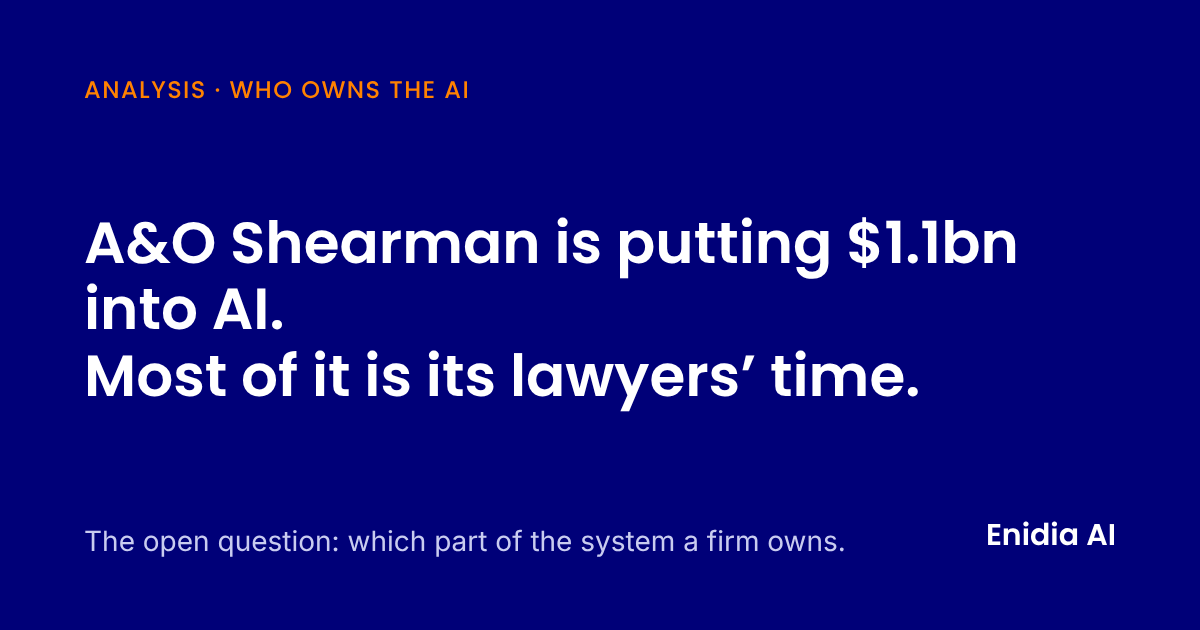
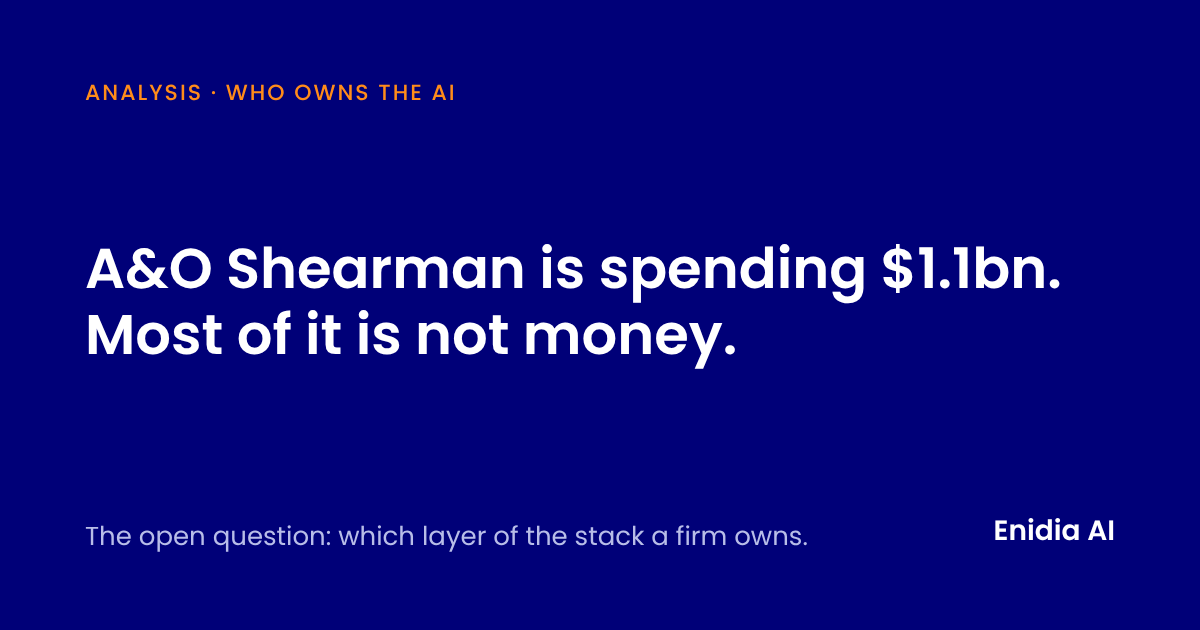
Update A&O Shearman article with RAMONA's revised text
New title and standfirst, per-lawyer arithmetic removed, A&O figures
sourced to the firm's own announcement (Reuters dropped), new headline
card, index card title and summary updated.

Claude-Session: https://claude.ai/code/session_01Nhv7rZuRa39Vx2m4perFc2

diff --git a/blog/which-layer-do-you-own.html b/blog/which-layer-do-you-own.html
@@ -11,18 +11,19 @@
 
   <meta charset="UTF-8" />
   <meta name="viewport" content="width=device-width, initial-scale=1.0" />
-  <title>A&amp;O Shearman’s $1.1bn AI bet, and what firms should own · Enidia AI</title>
-  <meta name="description" content="Most of A&amp;O Shearman’s $1.1bn AI commitment is lawyers’ time. It confirms firms want to own their AI. The open question is which part of the system to own." />
-  <meta name="keywords" content="law firm local AI model, A&O Shearman AI investment, on premise legal AI, open weight models law firm, legal AI build versus buy, Harvey law firm, legal AI confidentiality, Luxembourg legal AI" />
+  <title>A&amp;O Shearman’s billion, and which AI layer firms own · Enidia AI</title>
+  <meta name="description" content="A&amp;O Shearman says the majority of its 1.1 billion dollar AI commitment is practice time. The build signal is real. The open question is which layer of the stack a firm owns." />
+  <meta name="keywords" content="law firm local AI model, A&O Shearman AI investment, on premise legal AI, open weight models law firm, legal AI build versus buy, Harvey law firm, legal AI confidentiality, AI for fund administrators, Luxembourg legal AI" />
   <meta name="author" content="Enidia AI" />
   <link rel="canonical" href="https://enidia.ai/blog/which-layer-do-you-own.html" />
   <meta property="og:type" content="article" />
   <meta property="og:site_name" content="Enidia AI" />
-  <meta property="og:title" content="A&amp;O Shearman is putting $1.1bn into AI. Most of it is its lawyers’ time." />
-  <meta property="og:description" content="Most of A&amp;O Shearman’s $1.1bn AI commitment is lawyers’ time. It confirms firms want to own their AI. The open question is which part of the system to own." />
+  <meta property="og:title" content="A&amp;O Shearman is spending $1.1bn. Most of it is not money." />
+  <meta property="og:description" content="A&amp;O Shearman says the majority of its 1.1 billion dollar AI commitment is practice time. The build signal is real. The open question is which layer of the stack a firm owns." />
   <meta property="og:url" content="https://enidia.ai/blog/which-layer-do-you-own.html" />
   <meta property="og:image" content="https://enidia.ai/assets/img/blog/ao-shearman-billion-1200x630.png" />
   <meta property="article:published_time" content="2026-11-12" />
+  <meta property="article:modified_time" content="2026-11-14" />
   <meta name="twitter:card" content="summary_large_image" />
   <link rel="icon" href="../assets/img/favicon.png" />
   <link rel="stylesheet" href="../assets/css/fonts.css">
@@ -32,10 +33,11 @@
 {
   "@context": "https://schema.org",
   "@type": "Article",
-  "headline": "A&O Shearman is putting $1.1bn into AI. Most of it is its lawyers’ time.",
-  "description": "Most of A&O Shearman’s $1.1bn AI commitment is lawyers’ time. It confirms firms want to own their AI. The open question is which part of the system to own.",
-  "keywords": "law firm local AI model, A&O Shearman AI investment, on premise legal AI, open weight models law firm, legal AI build versus buy, Harvey law firm, legal AI confidentiality, Luxembourg legal AI",
+  "headline": "A&O Shearman is spending $1.1bn. Most of it is not money.",
+  "description": "A&O Shearman says the majority of its 1.1 billion dollar AI commitment is practice time. The build signal is real. The open question is which layer of the stack a firm owns.",
+  "keywords": "law firm local AI model, A&O Shearman AI investment, on premise legal AI, open weight models law firm, legal AI build versus buy, Harvey law firm, legal AI confidentiality, AI for fund administrators, Luxembourg legal AI",
   "datePublished": "2026-11-12",
+  "dateModified": "2026-11-14",
   "author": {
     "@type": "Person",
     "name": "Enidia AI",
@@ -76,52 +78,52 @@
   <article class="doc">
 
     <p class="doc-eyebrow">Analysis · Who owns the AI</p>
-    <h1>A&amp;O Shearman is putting $1.1bn into AI. Most of it is its lawyers’ time.</h1>
+    <h1>A&amp;O Shearman is spending $1.1bn. Most of it is not money.</h1>
     <div class="doc-meta">
       <strong>Enidia AI</strong><br/>
       November 12, 2026
     </div>
 
-    <figure class="doc-photo"><img src="../assets/img/blog/ao-shearman-billion-1200x630.png" alt="Headline card: A&amp;O Shearman is putting $1.1bn into AI. Most of it is its lawyers’ time." width="1200" height="630" /></figure>
+    <figure class="doc-photo"><img src="../assets/img/blog/ao-shearman-billion-1200x630.png" alt="Headline card: A&amp;O Shearman is spending $1.1bn. Most of it is not money." width="1200" height="630" /></figure>
 
     <div class="abstract">
-      <p>A&O Shearman has committed 1.1 billion dollars to AI over five years, and the firm says most of it will come from its lawyers’ time rather than new spending. That is a firm deciding that its AI should belong to the firm, not be rented. The question it leaves open is which part of the system a firm needs to own.</p>
+      <p>A&amp;O Shearman has committed 1.1 billion dollars to AI over five years. The firm says the majority of that figure is its own practices’ time rather than a cheque. That is the real signal, and it is the one we have been waiting three years for. What it does not settle is which part of the stack a firm actually needs to own.</p>
     </div>
 
-    <p>On 10 November <a href="https://newsletter.thelegalwire.ai/p/a-o-shearman-s-1-1b-ai-play" target="_blank" rel="noopener">The Legal Wire</a> pulled together a week that shows where large firms now think AI belongs. A&amp;O Shearman committed 1.1 billion dollars to its AI strategy over five years, <a href="https://www.aoshearman.com/en/news/ao-shearman-accelerates-ai-strategy-with-a-usd11bn-lawyer-led-commitment" target="_blank" rel="noopener">announced on 5 November</a> and <a href="https://www.reuters.com/legal/legalindustry/ao-shearmans-11-billion-ai-plan-builds-law-firms-tech-investments-2026-11-05/" target="_blank" rel="noopener">reported by Reuters</a>. Addleshaw Goddard said it will put Harvey in front of more than 3,400 lawyers and business services staff from January 2027, after a three-month assessment, with its 80-person Innovation Group working directly with Harvey’s product team. And Nikki Shaver leaves Legaltech Hub on 1 December to become Davis Polk’s first standalone Chief AI and Knowledge Officer.</p>
-    <p>That is three announcements in one week, and none of them is an ordinary software purchase.</p>
+    <p>On 10 November <a href="https://newsletter.thelegalwire.ai/p/a-o-shearman-s-1-1b-ai-play" target="_blank" rel="noopener">The Legal Wire</a> pulled together a week that tells you where large firms now think AI sits. A&amp;O Shearman <a href="https://www.aoshearman.com/en/news/ao-shearman-accelerates-ai-strategy-with-a-usd11bn-lawyer-led-commitment" target="_blank" rel="noopener">announced on 5 November</a> that it is committing 1.1 billion dollars to its AI strategy over five years. Addleshaw Goddard said it will put Harvey in front of more than 3,400 lawyers and business services staff from January 2027, after a three-month assessment, with its 80-person Innovation Group working directly with Harvey’s product team. And Nikki Shaver leaves Legaltech Hub on 1 December to become Davis Polk’s first standalone Chief AI and Knowledge Officer.</p>
+    <p>Three announcements, one week. None of them is a software purchase in the ordinary sense.</p>
 
     <h2>Read the sentence after the headline</h2>
-    <p>Most people will repeat the 1.1 billion figure. The sentence after it in A&amp;O’s announcement is more interesting: the majority of the investment will come from each practice putting at least 3 percent of its time into building specialist AI tools and services for its area of law.</p>
-    <p>The firm has not said how much of the figure is cash. But a rough calculation shows the scale. The Legal Wire puts A&amp;O at nearly 4,000 lawyers. If the whole 1.1 billion were time, that would be up to about 55,000 dollars per lawyer per year. Most of the figure is lawyers’ time, valued at what the firm could otherwise have billed for it. This calculation is ours, not a number A&amp;O has published.</p>
-    <p>So this is not a purchase. It is a firm deciding that building AI is part of its lawyers’ job, and paying for it with the thing a law firm has most of: its lawyers’ time.</p>
+    <p>The 1.1 billion is the number everyone will repeat. The sentence that follows it in the firm’s own announcement is the one worth reading. The majority of the investment, A&amp;O Shearman says, will come from “each practice investing at least 3% of its time” developing specialist AI tools and services inside its own area of law.</p>
+    <p>So the majority of a billion dollar commitment is practice time rather than licence fees. A firm is spending the scarcest thing it has on building, and it is doing it practice by practice instead of buying one general tool for everybody.</p>
+    <p>There is four years of groundwork behind that decision. A&amp;O Shearman rolled out generative AI across the firm in 2022, built ContractMatrix with Harvey and Microsoft in 2023, and reports that in September 2026, 96 percent of its partners and 93 percent of its lawyers used its AI tools. This is a firm extending something that already works.</p>
 
-    <h2>What this confirms</h2>
-    <p>Enidia was founded in 2023 on a premise that sounded eccentric at the time: that firms would eventually want their AI back. They would want something they control rather than a subscription to someone else’s system.</p>
-    <p>A&amp;O’s announcement is the clearest sign yet that this idea is now mainstream. A firm does not ask every practice to spend 3 percent of its time building tools if it thinks those tools are a commodity it can rent. It does that when it has decided the capability belongs to the firm.</p>
+    <h2>Why we think this is the important part</h2>
+    <p>Enidia was founded three years ago on a premise that sounded eccentric at the time: that firms would eventually want their AI back. Not a subscription to someone else’s system, but something they control, running on infrastructure they answer for, over documents that never leave.</p>
+    <p>The A&amp;O announcement is the clearest evidence yet that the first half of that premise is now mainstream. A firm does not assign 3 percent of its lawyers’ time to building tools if it believes those tools are a commodity it can rent. It does that when it has decided the capability is part of the firm.</p>
+    <p>We should be straight about the second half, because the firm’s own choices make the point. A&amp;O was the first major firm to partner with Harvey, in 2023, and it co-built ContractMatrix with Harvey and Microsoft. The layer it is taking control of is the application layer: the workflows, the prompts, the tools its lawyers use. The model and the hosting stay with vendors.</p>
+    <p>That can be the right trade. It is worth knowing you have made it.</p>
 
-    <h2>Where our bet goes a step further</h2>
-    <p>A&amp;O was the first major firm to partner with Harvey, in 2023, and it built ContractMatrix with Harvey and Microsoft. What it is taking ownership of is its own tools: the workflows, the expertise built into them and the applications its lawyers use. The partners it names are Harvey and Microsoft. Nothing in the announcement suggests it plans to own the AI model or the servers it runs on.</p>
-    <p>That is a legitimate choice, and for many firms it is the right one. Our bet goes one step further: the firm owns the model and the servers too, running open-weight models on hardware it controls, over documents that never leave the building.</p>
-
-    <h2>Which part do you need to own?</h2>
-    <p>We don’t think the question is whether to build. It is how much of the system you have to own before three ordinary questions stop being awkward to answer.</p>
-    <p>First, where do the client’s documents physically sit while the system reads them, and which country’s law applies there? If the honest answer involves a service hosted in the US or China, you will have to tell your client that, and your regulator, and more and more often your insurer.</p>
-    <p>Second, what happens to the bill in a heavy month? Pricing per user and per amount of text processed grows with headcount and usage. Hardware you own costs the same whether a task covers three documents or three hundred.</p>
-    <p>Third, when a partner signs, can the firm show where each answer came from? Our answers are labelled Found, Inferred or Absent, each with the exact source text and where it appears, and every run produces a certificate that goes into the matter file.</p>
-    <p>Owning the tools lets you decide how the work is done. Owning the model and the hardware lets you answer those three questions. A firm with 4,000 lawyers can afford to do both, one after the other. A firm with 40 cannot, so the order it chooses matters more for it than for A&amp;O.</p>
+    <h2>Which layer do you actually need to own</h2>
+    <p>The question we care about is which part of the stack a firm has to own before the answer to three ordinary questions stops being awkward.</p>
+    <p>Where do the client’s documents physically sit while the system reads them, and whose jurisdiction is that? If the honest answer involves a US or Chinese hosted service, that is a sentence you will say to a client, to a regulator, and increasingly to your insurer.</p>
+    <p>What happens to the bill in a heavy month? Per seat and per token pricing scales with headcount and usage. Hardware you own costs the same whether the form runs over three documents or three hundred.</p>
+    <p>And when a partner signs, can the firm show where each answer came from? Our answers come back as Found, Inferred or Absent, each with its verbatim source and locator, and every run produces a certificate that goes into the matter file.</p>
+    <p>Own the application layer and you control how the work feels. Own the model and the machine and you control the answers to those three questions. A firm of A&amp;O’s size can afford to do both, in sequence, over five years. A firm of forty lawyers has to choose an order, which is why the order matters more for them than it does for A&amp;O.</p>
 
     <h2>What a firm without a billion can take from this</h2>
-    <p>Any firm can copy the 3 percent idea, and it is the part of this story we would borrow. If a firm of 40 lawyers gives its people 3 percent of their time, that is roughly one lawyer-week a month spent improving how the firm works. This doesn’t need a budget. It needs the firm to decide whose job this is.</p>
+    <p>The 3 percent idea is portable, and it is the part of this story we would steal. In a firm of forty lawyers, 3 percent of everyone’s time adds up to a little more than one lawyer working full time on how the firm actually works. No budget line produces that. It comes from a decision about whose problem this is.</p>
 
     <h2>Where this gets easier</h2>
     <p>Two things move in favour of owning the lower layers every year, and neither of them depends on us. Open-weight models keep closing the gap with the frontier systems, and the hardware that runs them keeps getting cheaper for the same capability. A decision that looked like an unusual capital expense three years ago is an ordinary one now, and it gets smaller every year.</p>
     <p>The question that does not move is the first of the three above. A document that never leaves the building needs no jurisdictional argument, in any market, in any year. That is the part of the stack we chose to own, and the reason we chose it is the same today as it was when we started.</p>
 
     <h2>If you want to see it</h2>
-    <p>We run a <a href="../index.html#start">one-month pilot</a> on non-confidential material, on your hardware or ours. You can also explore <a href="../index.html#agents">the three agents</a>, our <a href="../verification-standard.html">Legal AI Verification Standard</a> and the <a href="../index.html#calculator">cost calculator</a>.</p>
+    <p>We run a <a href="../index.html#start">one-month pilot</a> on non-confidential material, on your hardware or ours. <a href="../index.html#agents">The three agents</a> and the <a href="../verification-standard.html">Legal AI Verification Standard</a> are on the site.</p>
 
-    <p style="font-size:0.9rem;color:var(--ink-faint)">Sources: The Legal Wire, <a href="https://newsletter.thelegalwire.ai/p/a-o-shearman-s-1-1b-ai-play" target="_blank" rel="noopener">10 November 2026</a>; A&amp;O Shearman, <a href="https://www.aoshearman.com/en/news/ao-shearman-accelerates-ai-strategy-with-a-usd11bn-lawyer-led-commitment" target="_blank" rel="noopener">5 November 2026</a>; <a href="https://www.reuters.com/legal/legalindustry/ao-shearmans-11-billion-ai-plan-builds-law-firms-tech-investments-2026-11-05/" target="_blank" rel="noopener">Reuters, 5 November 2026</a>.</p>
+    <p style="font-size:0.9rem;color:var(--ink-faint)">Related: <a href="ai-agents-in-law.html">Should legal AI be able to do everything?</a> · <a href="../index.html#calculator">ROI calculator</a></p>
+
+    <p style="font-size:0.9rem;color:var(--ink-faint)">Sources: A&amp;O Shearman, <a href="https://www.aoshearman.com/en/news/ao-shearman-accelerates-ai-strategy-with-a-usd11bn-lawyer-led-commitment" target="_blank" rel="noopener">5 November 2026</a>; The Legal Wire, <a href="https://newsletter.thelegalwire.ai/p/a-o-shearman-s-1-1b-ai-play" target="_blank" rel="noopener">10 November 2026</a>.</p>
 
     <div class="doc-cta">
       <p><strong>Try Enidia AI for free</strong> with your Google login.</p>

diff --git a/blog/index.html b/blog/index.html
@@ -56,11 +56,11 @@
       </div>
       <div class="posts" id="posts">
         <article class="post" data-date="2026-11-12">
-          <a href="which-layer-do-you-own.html"><img src="../assets/img/blog/ao-shearman-billion-1200x630.png" alt="Headline card: A&amp;O Shearman is putting $1.1bn into AI. Most of it is its lawyers’ time." style="object-fit:contain" loading="lazy" /></a>
+          <a href="which-layer-do-you-own.html"><img src="../assets/img/blog/ao-shearman-billion-1200x630.png" alt="Headline card: A&amp;O Shearman is spending $1.1bn. Most of it is not money." style="object-fit:contain" loading="lazy" /></a>
           <div class="body">
             <p class="date">November 12, 2026</p>
-            <h3><a href="which-layer-do-you-own.html">A&amp;O Shearman is putting $1.1bn into AI. Most of it is its lawyers’ time.</a></h3>
-            <p>A&amp;O Shearman’s $1.1bn AI commitment is mostly its lawyers’ time. It confirms that firms want to own their AI. The open question is which part of the system a firm needs to own.</p>
+            <h3><a href="which-layer-do-you-own.html">A&amp;O Shearman is spending $1.1bn. Most of it is not money.</a></h3>
+            <p>A&amp;O Shearman says the majority of its 1.1 billion dollar AI commitment is practice time. The build signal is real. The open question is which layer of the stack a firm owns.</p>
             <a class="go" href="which-layer-do-you-own.html">Read the article →</a>
           </div>
         </article>
